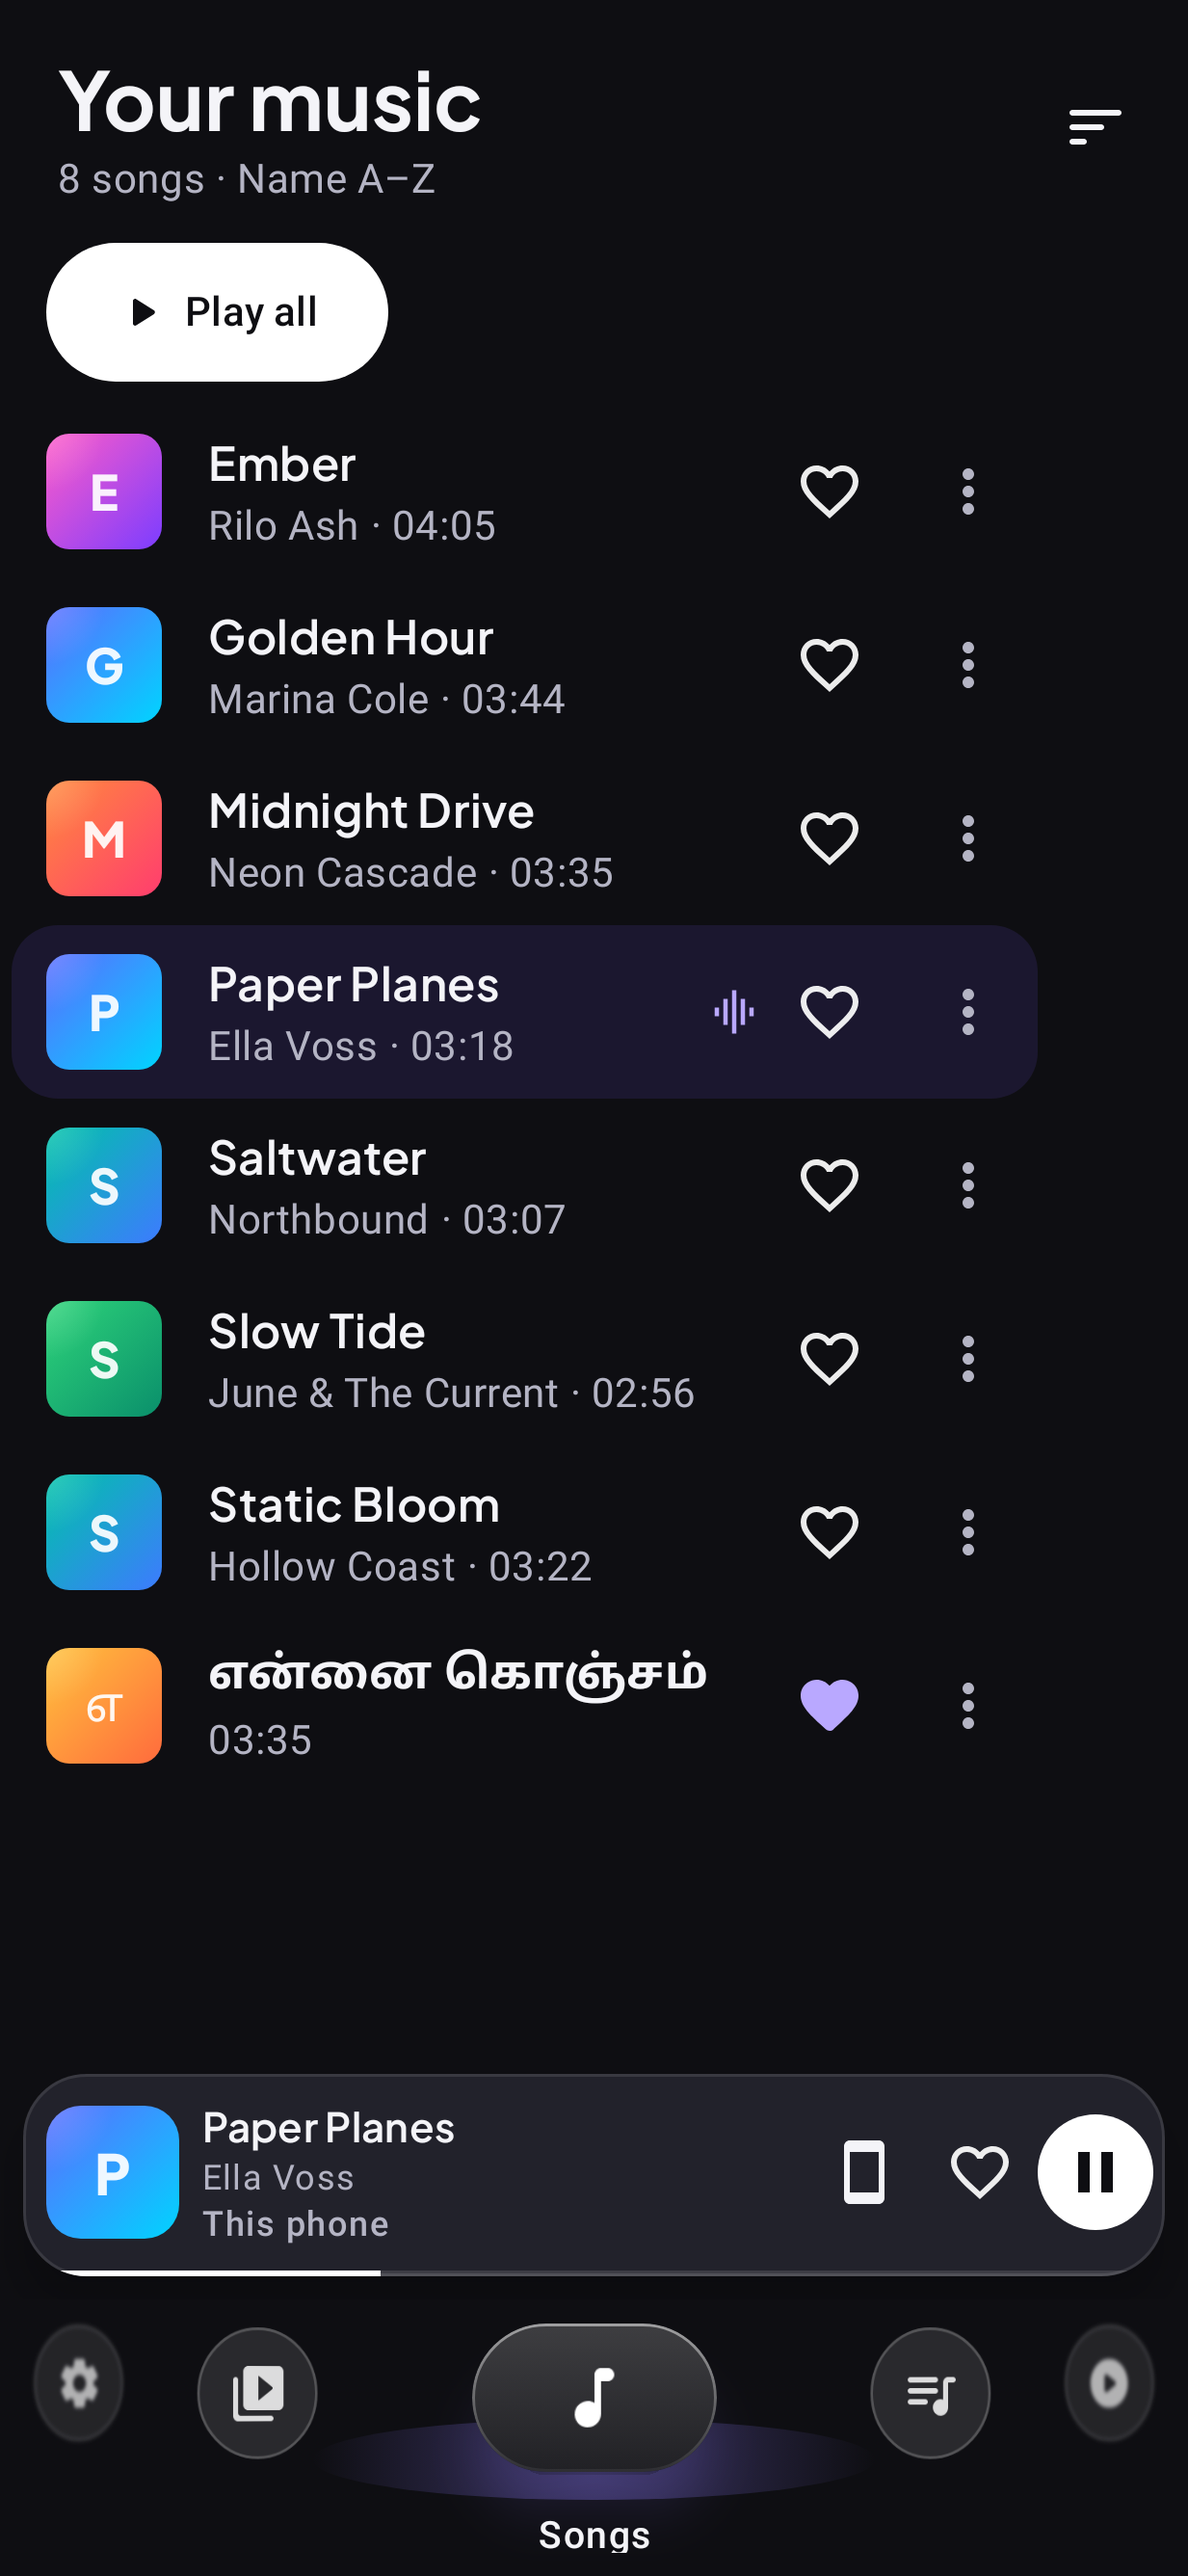
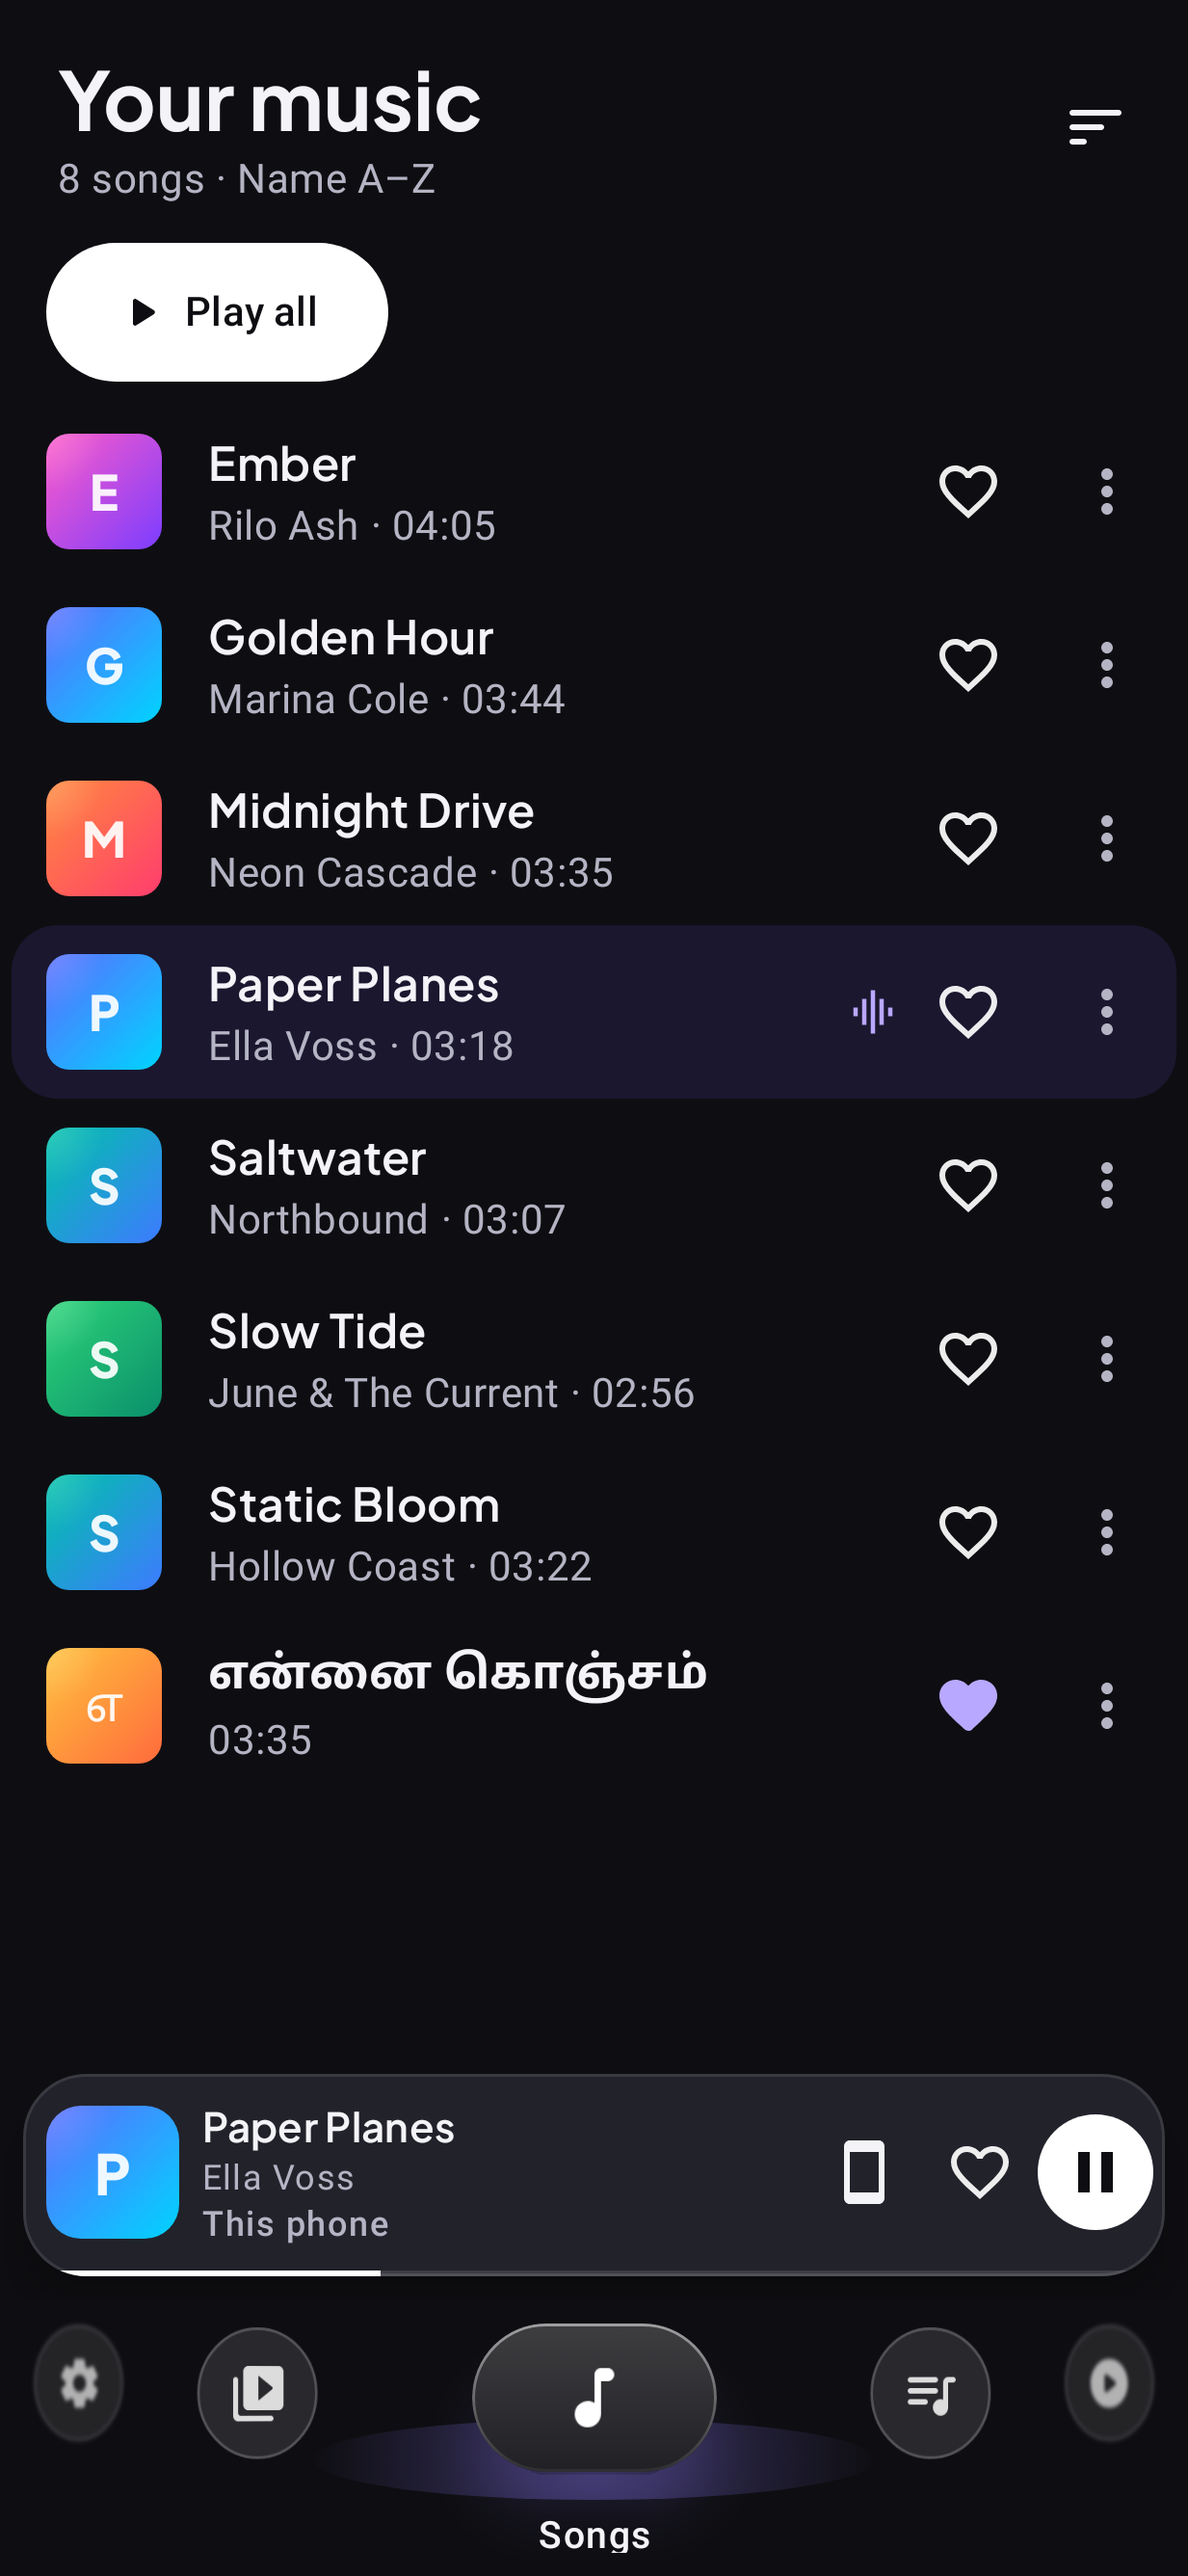
Document the width bug at six phone sizes
devices/<profile>_before.png (main, 39fa00e, rendered in a temporary
worktree) and _after.png (4fd5861): Songs left, Videos right, at the S24
Ultra's default and smaller display sizes, the S25, the S25 Ultra, a narrow
360x640 dp phone and a 412x915 dp one. DEVICES.md lists the profiles and
their sources, the root cause, and every row's measured margins: before,
Songs 8/48 dp and Videos 8/8 dp; after, both 4/4 dp (the fill inset) with
the content 16 dp in. Robolectric renders, not device captures.

after/songs.png and after/videos.png are re-recorded (the ⋮ now sits 16 dp
from the screen edge) and MEASURED.md follows; one line in lessons.md.

diff --git a/docs/screenshots/layout-lists/DEVICES.md b/docs/screenshots/layout-lists/DEVICES.md
@@ -1,0 +1,101 @@
+# Songs and Videos rows at six phone sizes (the width bug)
+
+Shibi saw it on a Galaxy S24 Ultra running the Play build (`main`, `39fa00e`). On the Songs tab
+the rows stopped well short of the right edge, so the list looked shifted left. The Videos tab's
+rows filled the width with even margins. This page measures both lists at six phone sizes,
+before and after the fix.
+
+**These are Robolectric / Roborazzi renders, not emulator or device captures.** Each image is
+the app's Compose UI drawn on the JVM by Robolectric 4.17 (native graphics, SDK 35) at the
+profile's width, height and density. They do not show the phone's own status bar, navigation
+bar, punch-hole cutout or One UI font settings.
+
+## Profiles
+
+The numbers and sources are as given in the request; they were not re-checked here. A render's
+pixel size is the dp size times the density, rounded down.
+
+| Profile | Phone | Robolectric qualifiers | Density (DPR) | Render (px) | Source |
+|---|---|---|---|---|---|
+| `s24ultra` | Galaxy S24 Ultra, default FHD+ display size | `w384dp-h832dp-450dpi` | 2.8125 | 1080 × 2340 | DeviceAtlas, webmobilefirst.com |
+| `s24ultra_small` | Galaxy S24 Ultra, Display size "smaller" (the wide case) | `w412dp-h892dp-420dpi` | 2.625 | 1081 × 2341 | DeviceAtlas |
+| `s25` | Galaxy S25 | `w360dp-h780dp-480dpi` | 3.0 | 1080 × 2340 | yesviz.com |
+| `s25ultra` | Galaxy S25 Ultra | `w384dp-h832dp-450dpi` | 2.8125 (2.813) | 1080 × 2340 | breakpane.com, DeviceAtlas |
+| `narrow` | a generic narrow phone | `w360dp-h640dp-480dpi` | 3.0 | 1080 × 1920 | generic profile |
+| `wide412` | a 412 × 915 dp phone | `w412dp-h915dp-500dpi` | 3.125 | 1287 × 2859 | requested profile |
+
+The qualifiers are constants in `app/src/test/java/com/shibi/musicplayer/DeviceProfiles.kt`.
+
+## How the shots were made
+
+`DeviceWidthScreenshotTest` draws each list as shipped: Songs sorted A–Z, so with its fast
+scroller; the fake Videos library from `VideosScreenshotTest`. Each sits in the app's compact
+chrome (the mini player and the carousel) on the **blush** backdrop. On blush every row draws a
+translucent white fill, so a row's width is visible.
+
+- **Before:** `main` at `39fa00e`. The test file (and `DeviceProfiles.kt`, nothing else) was
+  copied into a temporary `git worktree` of `39fa00e` and recorded there. The worktree was
+  then removed.
+- **After:** this branch at `4fd5861`, with the fix.
+
+The composites are in `devices/<profile>_before.png` and `devices/<profile>_after.png`. Songs
+is on the left and Videos on the right, at full resolution, under a label strip.
+
+**How the margins were read.** A Pillow script (kept out of the repo) worked on the original
+renders, not the composites.
+- It found each row on a vertical scan at x = 12 dp, which is inside every row's fill and left
+  of its art.
+- It kept only rows at the list's regular pitch. That drops the mini player and the carousel.
+- It read each row's fill edges at the row's middle, where the fill's sides are straight. An
+  edge pixel's coverage gives the sub-pixel position.
+- It found the ⋮ as three equal dots 6 dp apart, near the row's end.
+
+Every visible row was measured: 4 to 9 per shot. In every shot all rows read the same value.
+
+Layout snaps each padding to whole pixels. So at 2.8125, 8 dp (22.5 px) draws as 23 px, which
+reads as 8.18 dp, and 4 dp (11.25 px) draws as 11 px, which reads as 3.91 dp.
+
+## Row margins (dp from the screen's edges to the row's fill)
+
+| Profile | Before, Songs (left / right) | Before, Videos | After, Songs | After, Videos | ⋮ centre to the right edge (Songs before → both after) |
+|---|---|---|---|---|---|
+| `s24ultra` | 8.18 / **48.36** (8 rows) | 8.18 / 8.18 (7) | 3.91 / 3.91 (8) | 3.91 / 3.91 (7) | 76.09 → 27.73 |
+| `s24ultra_small` | 8.00 / **48.00** (9) | 8.00 / 8.00 (8) | 4.19 / 4.19 (9) | 4.19 / 4.19 (8) | 76.00 → 28.00 |
+| `s25` | 8.00 / **48.00** (7) | 8.00 / 8.00 (7) | 4.00 / 4.00 (7) | 4.00 / 4.00 (7) | 76.00 → 28.00 |
+| `s25ultra` | 8.18 / **48.36** (8) | 8.18 / 8.18 (7) | 3.91 / 3.91 (8) | 3.91 / 3.91 (7) | 76.09 → 27.73 |
+| `narrow` | 8.00 / **48.00** (5) | 8.00 / 8.00 (5) | 4.00 / 4.00 (5) | 4.00 / 4.00 (4) | 76.00 → 28.00 |
+| `wide412` | 8.00 / **48.00** (9) | 8.00 / 8.00 (8) | 4.16 / 4.16 (9) | 4.16 / 4.16 (9) | 76.00 → 28.00 |
+
+Before, video rows had no ⋮.
+
+- **Before:** at every size, Songs rows ended 40 dp further from the right edge than from the
+  left (8 / 48 dp), while Videos rows were even (8 / 8 dp).
+- **After:** Songs and Videos rows are the same, at every size: 4 dp from each edge (the rows'
+  fill inset). The content sits 16 dp in on both sides: the art's start, and the ⋮ icon's end,
+  12 dp past its 28 dp centre.
+
+## Root cause and fix
+
+**Root cause.** The Songs list always takes the fast-scroll branch of `SongColumn`:
+`LibraryScreen.kt:255` passes `sorted = songs`, and `:406` forwards it as `fastScroll`. That
+branch pads the list's end by `SongScrollerGutter` (`LibraryScreen.kt:480`), defined at `:519` as
+`FastScrollTouchWidth - 8.dp`, which is 40 dp. The gutter kept the fast-scroll thumb off a row's
+heart and ⋮. With the rows' own 8 dp inset (`TrackRow`, `LibraryScreen.kt:677`), Songs rows
+spanned 8 dp to 48 dp from the edges. The Videos list has no such gutter (`VideosScreen.kt:410`;
+rows inset 8 dp each side at `:519`).
+
+There is no width cap or breakpoint in play. The only breakpoint is the 600 dp two-pane one
+(`MusicApp.kt:108`), and every profile here is below it.
+
+**This branch before the fix.** The list-row restyle had kept the gutter, as
+`ListScrollerGutter` (48 dp), and given it to Videos too.
+
+**The fix** (`4fd5861`). Neither list leaves the gutter any more, so rows keep the full width with
+even margins.
+- As on Videos before, the fast-scroll thumb shows over the row ends while it is up: during a
+  scroll or drag and for 2 s after.
+- A row's heart always ends left of it, and once it fades nothing covers a ⋮.
+- `RowWidthUiTest` checks at all six sizes that Songs and Videos rows share their bounds with
+  even margins. On this branch before the fix it failed at every size: for example 11 px on
+  the left against 146 px on the right at the S24 Ultra, which is 4 dp against the 48 dp gutter
+  plus 4 dp. It passes after the fix.

diff --git a/docs/screenshots/layout-lists/MEASURED.md b/docs/screenshots/layout-lists/MEASURED.md
@@ -2,6 +2,7 @@
 
 Values as set in code, and, where the pixels show them, as measured from `after/songs.png` and
 `after/videos.png`. The constants are in `app/src/main/java/com/shibi/musicplayer/ui/ListRows.kt`.
+Row margins at six real phone sizes are in `DEVICES.md`.
 
 **Screenshots and density.** Both PNGs are 1233 × 2673 px, recorded by `recordRoborazziDebug`
 from `ScreenshotTest.list` (Songs) and `VideosScreenshotTest.compactDark` (Videos) with the
@@ -19,24 +20,28 @@ which is what the old code set.
 
 | Value | In code | Measured from the after PNGs | Source |
 |---|---|---|---|
-| Side margin, start: the art's left edge from the row's start | 16 dp (`ListRowSideMargin`: 4 dp fill inset + 12 dp padding) | 48 px = **16.00 dp**, all 8 visible rows of each list | measured |
-| Side margin, end: the ⋮ icon's right edge from the row's end | 16 dp (`ListRowSideMargin`; the end padding `ListRowEndPadding` is 0 dp because the 24 dp glyph sits 12 dp inside its 48 dp target) | dots centred at x = 1005 px = 335.00 dp, **76.00 dp** from the screen's right edge, both lists = 48 dp gutter + 16 dp margin + 12 dp (half the 24 dp icon) | dot centre measured; the 24 dp icon box and the 48 dp gutter are from code |
+| Side margin, start: the art's left edge from the screen's left edge | 16 dp (`ListRowSideMargin`: 4 dp fill inset + 12 dp padding) | 48 px = **16.00 dp**, all 8 visible rows of each list | measured |
+| Side margin, end: the ⋮ icon's right edge from the screen's right edge | 16 dp (`ListRowSideMargin`; the end padding `ListRowEndPadding` is 0 dp because the 24 dp glyph sits 12 dp inside its 48 dp target) | dots centred at x = 1149 px = 383.00 dp, **28.00 dp** from the right edge in both lists = 16 dp margin + 12 dp (half the 24 dp icon) | dot centre measured; the 24 dp icon box is from code |
 | Row height | 60 dp minimum (`ListRowHeight`); larger font scales grow it | pitch 180 px = **60.00 dp**, 7 pitches in each list | measured |
 | Thumbnail size | 40 × 40 dp (`ListThumbnailSize`) | 120 × 120 px = **40.00 × 40.00 dp**, 16 thumbnails | measured |
 | Thumbnail corner radius | 8 dp (`ListThumbnailCorner`) | **7.4 to 7.7 dp**. The same fit reads the before shots' known 12 dp corners as 11.6 to 11.7 dp (about 0.3 dp low, from the edge threshold), so this matches 8 dp | measured (estimate) |
 | Overflow (⋮) touch target | 48 × 48 dp (`ListRowButtonTouchSize`: Material 3 `IconButton` keeps its minimum interactive size) | not visible: the target is invisible and the 40 dp state layer only shows when pressed | code only; `ListRowsUiTest` asserts 48 × 48 dp touch bounds on every ⋮ |
 | Play all pill height | 48 dp minimum (`PlayAllPillHeight`), at the 16 dp side margin | white pill 144 px = **48.00 dp** tall; left edge 48 px = **16.00 dp**; 118.33 dp wide | measured |
-| Room at the rows' end for the fast-scroll thumb | 48 dp (`ListScrollerGutter` = `FastScrollTouchWidth`) | an empty strip; only implied by the ⋮ position above | code only |
-| Row fill inset (light backdrops, playing or selected row) | 4 dp each side, 16 dp corners | the fill is transparent on the dark backdrop of these two shots | code only |
+| Row fill inset (light backdrops, playing or selected row) | 4 dp each side, 16 dp corners; rows keep the list's full width | the fill is transparent on the dark backdrop of these two shots; on blush it measures 4 dp each side (`DEVICES.md`) | code; measured in `DEVICES.md` |
+
+The rows no longer leave room at their end for the fast-scroll thumb (that gap was the width bug,
+see `DEVICES.md`): the thumb shows over the row ends only while it is up, a row's heart always
+ends left of it, and once it fades nothing covers a ⋮.
 
 The semantics tree confirms the same values: `ListRowsUiTest` (Robolectric, same qualifiers)
 asserts 60 dp rows (also while selecting and with a watched hairline), 40 dp art 16 dp from the
-list's start and centred in the row, the ⋮ glyph 16 dp from the row's end both without the
-scroller and beside its 48 dp gutter (as shipped), 48 × 48 dp ⋮ touch targets that end left of
-the fast-scroll thumb, the video month header on the 16 dp margin, and a 48 dp Play all Button
-16 dp from the list's start. `ListRowsTextUiTest` (native graphics) checks that a 2x font
-grows the row past 60 dp instead of clipping it.
+list's start and centred in the row, the ⋮ glyph 16 dp from the list's end with and without the
+fast scroller, 48 × 48 dp ⋮ touch targets, hearts that end left of the fast-scroll thumb, the
+video month header on the 16 dp margin, and a 48 dp Play all Button 16 dp from the list's start.
+`ListRowsTextUiTest` (native graphics) checks that a 2x font grows the row past 60 dp instead of
+clipping it, and `RowWidthUiTest` that Songs and Videos rows share their bounds and even margins
+at six phone sizes.
 
 Before, for comparison (same method, `before/`): Songs rows 68 dp with 52 dp art at 20 dp and
-12 dp corners; Videos rows 70 dp with 96 × 54 dp frames at 20 dp; no Play all pill. The Songs ⋮
-sat at the same place as now, 76 dp from the screen's right edge.
+12 dp corners, the ⋮ centred 76 dp from the screen's right edge (the rows ended 48 dp short of
+it); Videos rows 70 dp with 96 × 54 dp frames at 20 dp; no Play all pill.

diff --git a/docs/lessons.md b/docs/lessons.md
@@ -204,3 +204,4 @@ After every task, append an entry below: `- [task] what went wrong -> new rule`.
 - [library sort animation] the MotionScheme snap for the sort menu compiled as internal in material3 1.4.0 (javap prints Kotlin-internal APIs as public) and DropdownMenu has only Boolean overloads; a MotionDurationScale of 0 in the v2 createComposeRule effectContext (what animator scale 0 gives Compose on a device) still left the menu at its 0.8 start scale at the 64 ms sample, because no frame ran between the popup's first layout and the sample -> before pinning an animation with a paused-clock test, make sure the sample lands after the animation's first frame, and prove the animation can be switched off by compiling against the resolved version; what worked (review fix): keep the MotionDurationScale in the effectContext and, for a popup, advance one frame (composes it), `waitForIdle()` (attaches and lays out its window; the clock does not move), then advance to the sample.
 - [library sort review fixes] a real tap on the Videos tile landed on Playlists (a song tap puts Now playing in front, and the ring takes the frontmost tile under the finger), `Modifier.height` on a screen in `setContent` was overridden by the window's tight constraints, a closing DropdownMenu made `hasScrollAction()` match two nodes, and fixture videos sharing one date came out reversed by the real sorter's id tie-break -> tap ring tiles one direct neighbour at a time from the one in front, size a screen under test inside a fillMaxSize Box, let a menu finish closing before swiping the list, and give fixtures distinct times before routing them through the real sorter.
 - [layout lists] Three surprises: the fast-scroll thumb's touch area exists only while the thumb shows (scrolling, dragging, fading), so the new "menu clears the thumb" tests found no node; the first cut gave every video row a ⋮ whose only item, Move to trash, can only fail below Android 11 (minSdk 26); and the screenshot-reviewer opens at most 6 PNGs per run, and only under app/build/outputs/roborazzi -> hold the thumb with the tests-only fastScrollDragFraction (or fling a list long enough to scroll) before reading its bounds; gate trash entry points on MediaTrash.isSupported() and leave out an action that cannot work rather than show it; hand the reviewer before|after composites in the roborazzi folder, six per run, and delete them afterwards.
+- [width bug] Songs rows stopped 40 dp short of the right edge on a Galaxy S24 Ultra while Videos rows filled it: the Songs list always takes SongColumn's fast-scroll branch, whose end gutter (SongScrollerGutter, added so the thumb never covers a heart or ⋮) every screenshot showed but no test compared with Videos; the list-row restyle even copied the gutter to Videos -> compare sibling lists' row bounds at real phone sizes in a test (RowWidthUiTest: Songs and Videos rows share bounds and even margins), and treat an always-on gutter for a transient overlay (the thumb shows only while scrolling) as a layout bug; render older builds by copying only the new test files into a temporary git worktree of that commit, and delete its build folder with the `\\?\` prefix when git reports 'Filename too long'.
